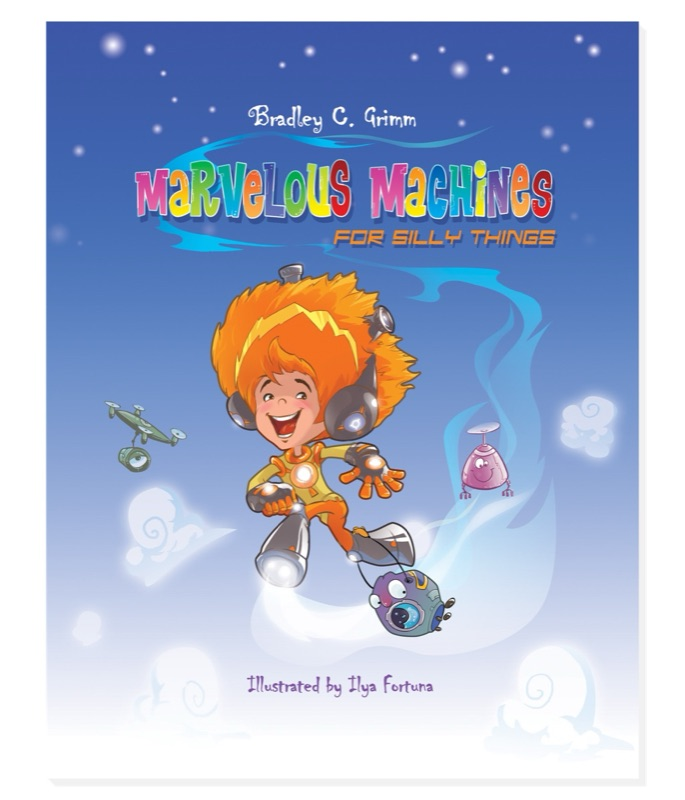
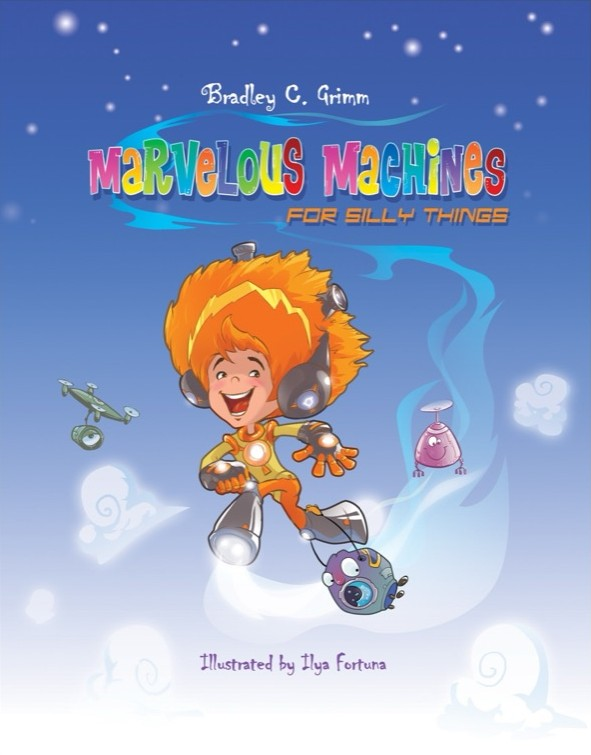
Screenshot galleries for Squishface and Spot!; crop white border off MM cover
Claude-Session: https://claude.ai/code/session_01PmSmTKJhzfUvw7qTm45xRV

diff --git a/spotanimals/index.html b/spotanimals/index.html
@@ -1,6 +1,7 @@
 <!DOCTYPE html><html lang="en"><head><meta charset="utf-8"><meta name="viewport" content="width=device-width,initial-scale=1"><title>Spot! Hidden Animals · A seek-and-find game for little kids</title><meta name="description" content="Spot! Hidden Animals is a seek-and-find game for little kids: 14 illustrated worlds, 560 hidden animals and things, and a sticker book to decorate."><link rel="canonical" href="https://bradgrimm.com/spotanimals/"><meta property="og:title" content="Spot! Hidden Animals · A seek-and-find game for little kids"><meta property="og:description" content="Spot! Hidden Animals is a seek-and-find game for little kids: 14 illustrated worlds, 560 hidden animals and things, and a sticker book to decorate."><meta property="og:image" content="https://bradgrimm.com/assets/apps/spotanimals/icon.png"><link rel="icon" href="/favicon.ico" sizes="32x32"><link rel="icon" href="/assets/images/favicon.svg" type="image/svg+xml"><link rel="apple-touch-icon" href="/apple-touch-icon.png"><link href="https://fonts.googleapis.com/css2?family=Barlow+Condensed:wght@600;700;800&family=Barlow:wght@400;500;600;700&display=swap" rel="stylesheet"><link rel="stylesheet" href="/assets/css/music.css"><link rel="stylesheet" href="/assets/css/work.css"><link rel="stylesheet" href="/assets/css/books.css"></head><body><a class="skip" href="#main">Skip to content</a><header class="header"><a class="wordmark" href="/" aria-label="Brad Grimm home">BRAD GRIMM<span> / </span></a><nav aria-label="Main navigation"><a href="/#music">The music</a><a href="/#beyond">Beyond the stage</a><a href="/work/">Research & work</a><a href="/apps/">Apps</a><a class="nav-book" href="/#contact">Let’s talk <span aria-hidden="true">↗</span></a></nav></header><main id="main" class="work-main">
 <p class="section-label">A SEEK-AND-FIND GAME FOR LITTLE KIDS</p>
 <div class="book-hero"><div><h1>Spot!<br>Hidden Animals</h1><p class="work-intro">Every world is one big illustrated picture with 40 animals and things hidden in it. Pinch to zoom, drag to look around, and tap what you spot. There are no ads, no purchases, and no internet needed.</p><div class="store-links"><span class="button">Coming soon to the App Store and Google Play</span></div><div class="work-links"><a href="#help">Help &amp; questions</a><a href="/spotanimals/privacy/">Privacy</a></div></div><img src="/assets/apps/spotanimals/icon.png" alt="The Spot! Hidden Animals app icon" width="512" height="512"></div>
+<div class="shots" role="list" aria-label="Screenshots"><img role="listitem" src="/assets/apps/spotanimals/shots/01-worlds.jpg" alt="Picking a world: the Pet Store" width="440" height="956" loading="lazy"><img role="listitem" src="/assets/apps/spotanimals/shots/02-find.jpg" alt="A garden world with five things to find in the tray" width="440" height="956" loading="lazy"><img role="listitem" src="/assets/apps/spotanimals/shots/03-sticker.jpg" alt="Earning a new sticker" width="440" height="956" loading="lazy"><img role="listitem" src="/assets/apps/spotanimals/shots/04-sticker-book.jpg" alt="The sticker book" width="440" height="956" loading="lazy"><img role="listitem" src="/assets/apps/spotanimals/shots/05-canal.jpg" alt="The canal world" width="440" height="956" loading="lazy"><img role="listitem" src="/assets/apps/spotanimals/shots/06-jungle.jpg" alt="The jungle temple world" width="440" height="956" loading="lazy"></div>
 <section class="about-section"><h2>What’s inside.</h2><div class="feature-grid">
 <div><h3>14 worlds</h3><p>A jungle temple, a sunken pirate ship, a snowy Antarctic camp, a busy zoo, an autumn orchard, and more.</p></div>
 <div><h3>560 finds</h3><p>Each find plays the next note of a little tune. When the last one turns up, everything comes out to dance.</p></div>

diff --git a/squishface/index.html b/squishface/index.html
@@ -1,6 +1,7 @@
 <!DOCTYPE html><html lang="en"><head><meta charset="utf-8"><meta name="viewport" content="width=device-width,initial-scale=1"><title>Squishface · A fun house mirror for your camera</title><meta name="description" content="Squishface turns your phone’s camera into a fun house mirror. Big eyes, balloon heads, fire hands, and 88 effects in all."><link rel="canonical" href="https://bradgrimm.com/squishface/"><meta property="og:title" content="Squishface · A fun house mirror for your camera"><meta property="og:description" content="Squishface turns your phone’s camera into a fun house mirror. Big eyes, balloon heads, fire hands, and 88 effects in all."><meta property="og:image" content="https://bradgrimm.com/assets/apps/squishface/icon.png"><link rel="icon" href="/favicon.ico" sizes="32x32"><link rel="icon" href="/assets/images/favicon.svg" type="image/svg+xml"><link rel="apple-touch-icon" href="/apple-touch-icon.png"><link href="https://fonts.googleapis.com/css2?family=Barlow+Condensed:wght@600;700;800&family=Barlow:wght@400;500;600;700&display=swap" rel="stylesheet"><link rel="stylesheet" href="/assets/css/music.css"><link rel="stylesheet" href="/assets/css/work.css"><link rel="stylesheet" href="/assets/css/books.css"></head><body><a class="skip" href="#main">Skip to content</a><header class="header"><a class="wordmark" href="/" aria-label="Brad Grimm home">BRAD GRIMM<span> / </span></a><nav aria-label="Main navigation"><a href="/#music">The music</a><a href="/#beyond">Beyond the stage</a><a href="/work/">Research & work</a><a href="/apps/">Apps</a><a class="nav-book" href="/#contact">Let’s talk <span aria-hidden="true">↗</span></a></nav></header><main id="main" class="work-main">
 <p class="section-label">A FUN HOUSE MIRROR FOR YOUR CAMERA</p>
 <div class="book-hero"><div><h1>Squish<br>face</h1><p class="work-intro">Point your camera at a friend, or yourself, and get goofy. Big eyes, a balloon head, lasers out of your fingers. It all happens live, so you can record it. (Back in 2012 it was called Goofy Glass.)</p><div class="store-links"><span class="button">Coming soon to the App Store and Google Play</span></div><div class="work-links"><a href="#support">Help &amp; questions</a><a href="/squishface/privacy/">Privacy</a></div></div><img src="/assets/apps/squishface/icon.png" alt="The Squishface icon: a winking cartoon face with a big goofy grin" width="512" height="512"></div>
+<div class="shots" role="list" aria-label="Screenshots"><img role="listitem" src="/assets/apps/squishface/shots/0-chiseled-jaw.jpg" alt="Chiseled Jaw effect: “chisel that jaw”" width="440" height="956" loading="lazy"><img role="listitem" src="/assets/apps/squishface/shots/1-big-eyes.jpg" alt="Big Eyes on two faces at once" width="440" height="956" loading="lazy"><img role="listitem" src="/assets/apps/squishface/shots/2-pinocchio.jpg" alt="Pinocchio: talk and your nose grows" width="440" height="956" loading="lazy"><img role="listitem" src="/assets/apps/squishface/shots/5a-shout.jpg" alt="Shout Ripples: shout and the world ripples" width="440" height="956" loading="lazy"><img role="listitem" src="/assets/apps/squishface/shots/8-synthwave.jpg" alt="Synthwave: change where you are" width="440" height="956" loading="lazy"><img role="listitem" src="/assets/apps/squishface/shots/9-sigma.jpg" alt="Sigma Stare: strike your best meme face" width="440" height="956" loading="lazy"></div>
 <section class="about-section"><h2>What’s inside.</h2><div class="feature-grid">
 <div><h3>88 effects</h3><p>Faces, hands, time warps, backgrounds, sound, and art. Swipe through them, or roll the dice.</p></div>
 <div><h3>Every face</h3><p>Face effects follow everyone in the shot, not just one person.</p></div>

diff --git a/marvelousmachines/index.html b/marvelousmachines/index.html
@@ -2,7 +2,7 @@
 <p class="section-label">AN AUGMENTED REALITY CHILDREN’S BOOK</p>
 <div class="book-hero"><div><h1>Marvelous<br>Machines</h1><p class="work-intro">A book about exploring, inventing, and having fun. Point the app at the book and the machines come to life, then smoke, sputter, and malfunction in hilarious ways.</p><div class="store-links"><a class="button" href="https://apps.apple.com/us/app/marvelous-machines/id1205353856">App Store ↗</a><span class="button">Google Play: coming soon</span></div><div class="work-links"><a href="#buy">The book ↓</a><a href="/marvelousmachines/demo/">Try it without the book ↓</a><a href="#support">Help &amp; questions</a></div></div><img src="/assets/books/marvelousmachines/hero.jpg" alt="A robot and rocket rising out of a Marvelous Machines page" width="800" height="450"></div>
 <p class="blog-notice">Looking for goodnightlad.com or marveloussillymachines.com? Those domains are no longer ours, and the books’ new home is here. Please don’t visit the old addresses.</p>
-<section id="buy" class="about-section buy"><p class="section-label">THE BOOK</p><div class="buy-card"><img src="/assets/books/marvelousmachines/cover.jpg" alt="The cover of Marvelous Machines for Silly Things: a boy with rocket boots and flaming orange hair flies past friendly little robots" width="685" height="800" loading="lazy"><div><h2>Books returning soon.</h2><p class="buy-byline">Marvelous Machines for Silly Things<br>by Bradley C. Grimm · illustrated by Ilya Fortuna</p><p>A picture book of thirty silly inventions. Open it, point the free app at any page, and watch every machine climb off the paper.</p><ul class="buy-facts"><li>Hardcover picture book, full color</li><li>Signed copies, shipped from Utah</li><li>Works with the free app on iPhone, iPad and Android</li></ul>
+<section id="buy" class="about-section buy"><p class="section-label">THE BOOK</p><div class="buy-card"><img src="/assets/books/marvelousmachines/cover.jpg" alt="The cover of Marvelous Machines for Silly Things: a boy with rocket boots and flaming orange hair flies past friendly little robots" width="591" height="755" loading="lazy"><div><h2>Books returning soon.</h2><p class="buy-byline">Marvelous Machines for Silly Things<br>by Bradley C. Grimm · illustrated by Ilya Fortuna</p><p>A picture book of thirty silly inventions. Open it, point the free app at any page, and watch every machine climb off the paper.</p><ul class="buy-facts"><li>Hardcover picture book, full color</li><li>Signed copies, shipped from Utah</li><li>Works with the free app on iPhone, iPad and Android</li></ul>
 <p class="buy-fine">I’m getting copies ready to sell again. Want to know when they’re available? <a href="#support">Send a note</a> and I’ll let you know.</p></div></div></section>
 <section class="about-section"><h2>Thirty silly machines.</h2><div class="feature-grid">
 <div><h3>Interactions</h3><p>Poke the machines and watch them work, or not.</p></div>

diff --git a/assets/css/books.css b/assets/css/books.css
@@ -8,5 +8,6 @@
 .buy-facts{color:#bdc8ce;font-size:16px;padding-left:20px;margin:16px 0 0}.buy-facts li{margin:5px 0}.buy-button{font-size:18px;padding-left:34px!important;padding-right:34px!important}.buy-fine{color:var(--muted);font-size:14px;margin-top:12px}
 .steps{color:#bdc8ce;font-size:17px;padding-left:22px}.steps li{margin:6px 0}
 .book-form label{color:var(--ink)}.book-form label span{color:var(--muted)}
-@media(max-width:760px){.book-hero,.buy-card{grid-template-columns:1fr}.buy-card img{max-width:300px;margin:0 auto}}
+.shots{display:flex;gap:16px;overflow-x:auto;scroll-snap-type:x mandatory;padding:4px 0 18px;margin:0 0 40px}.shots img{flex:0 0 auto;width:220px;height:auto;border-radius:18px;scroll-snap-align:start;box-shadow:0 10px 24px rgba(0,0,0,.35)}
+@media(max-width:760px){.shots img{width:62vw;max-width:240px}.book-hero,.buy-card{grid-template-columns:1fr}.buy-card img{max-width:300px;margin:0 auto}}
 @media print{header,footer,.no-print{display:none!important}body{background:#fff}.demo-pages figure{break-after:page}.demo-pages figcaption{display:none}.work-main{padding:0}}
